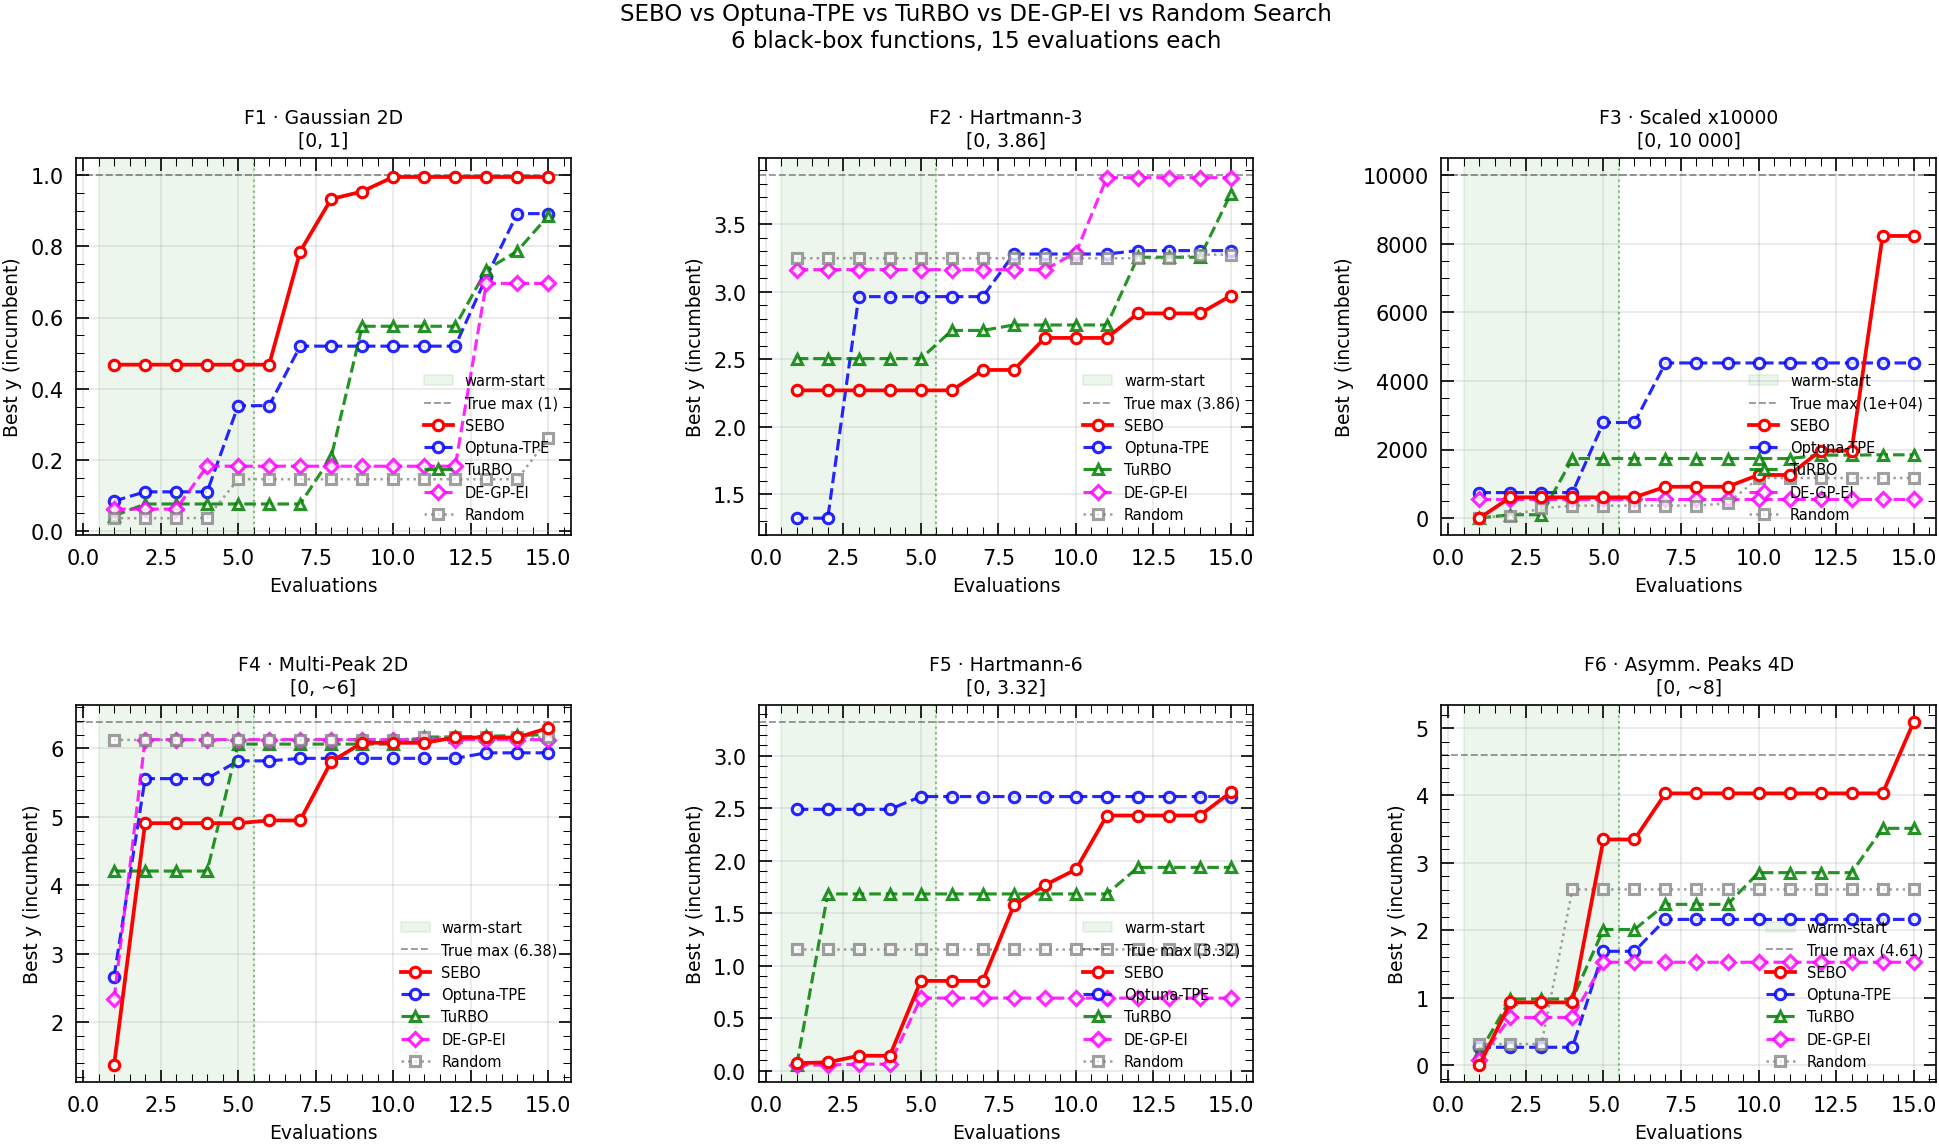
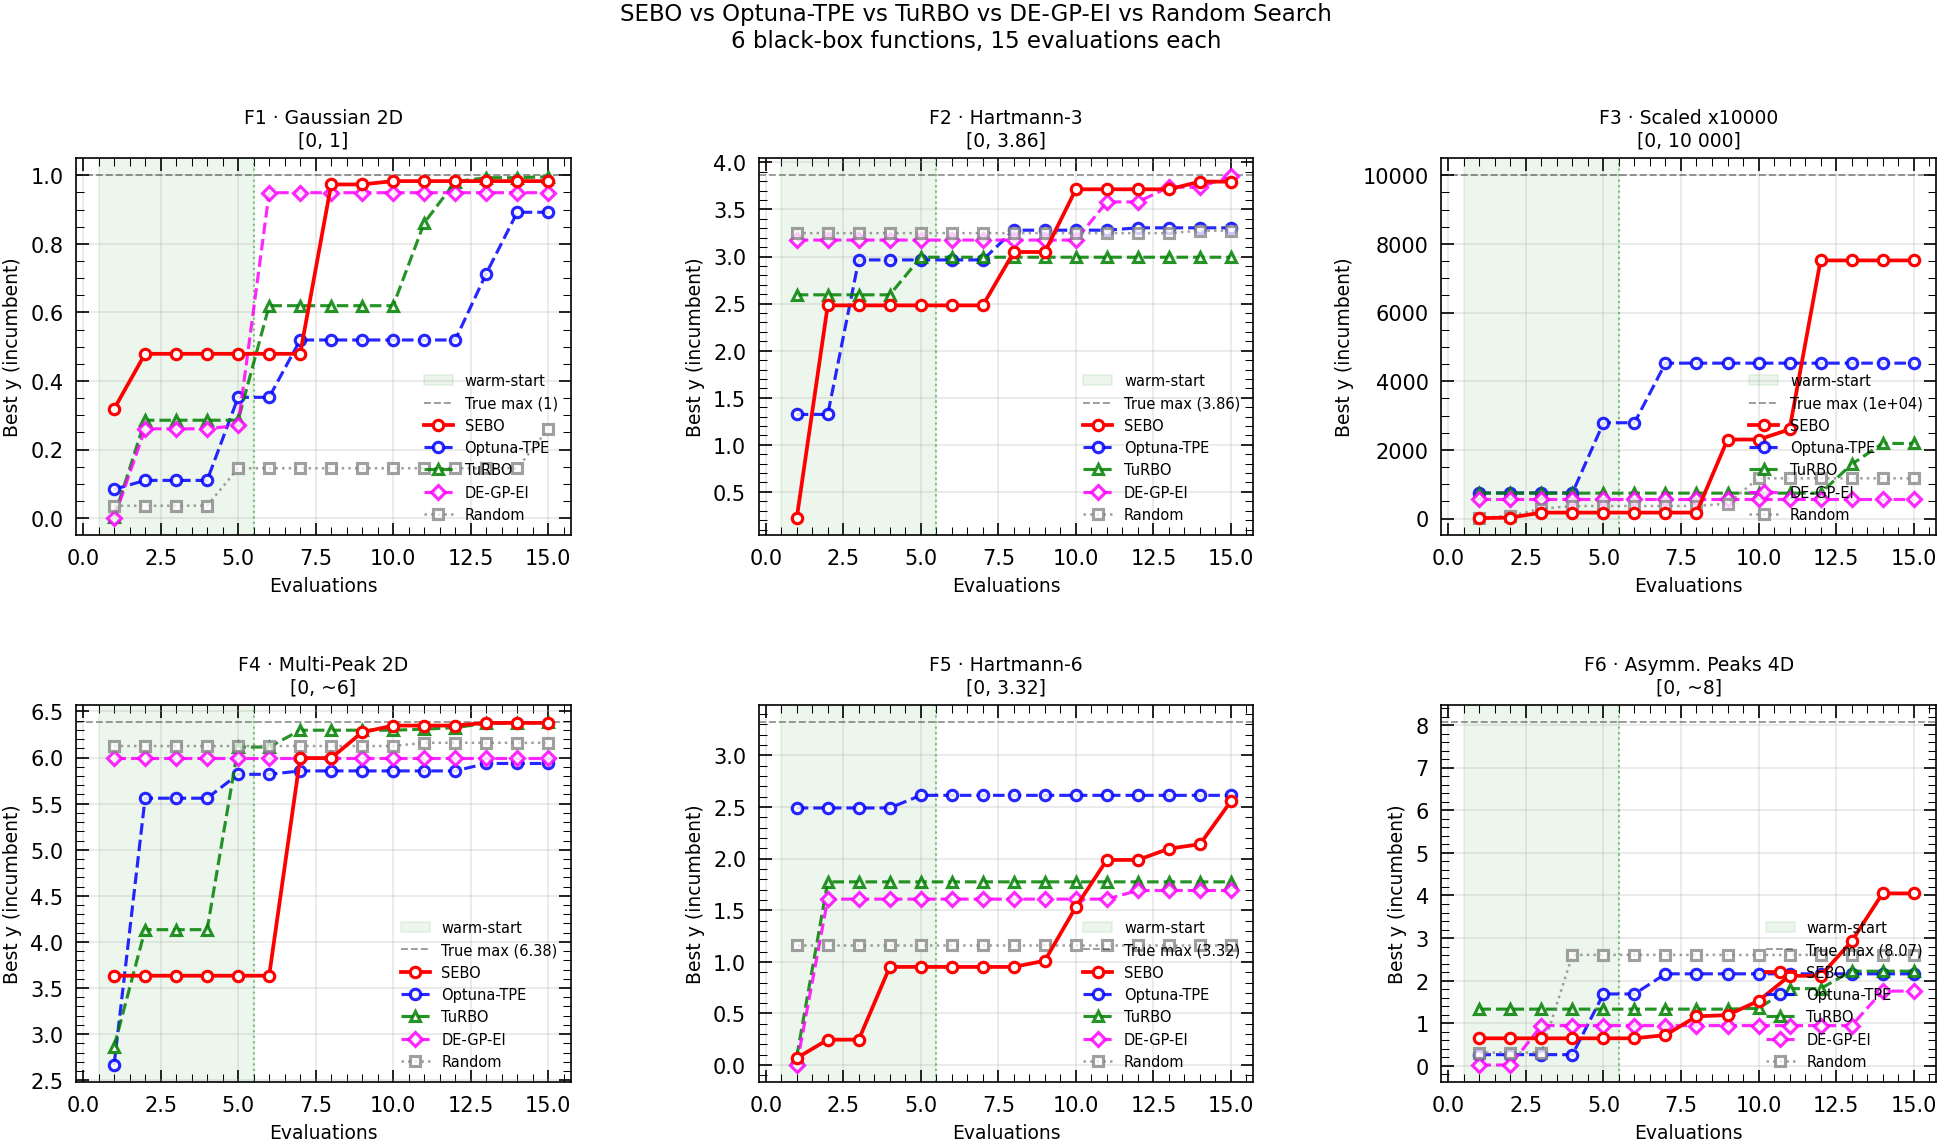
Fix F6 true_opt (DE was stuck at local peak); reframe benchmark as open-source comparison

diff --git a/README.md b/README.md
@@ -137,13 +137,13 @@ python append_results/run_optimizers_on_data.py --solvers my_bo optuna turbo de_
 
 ---
 
-## Demo — SEBO as a Real HPO Solver
+## Demo — SEBO as an HPO Solver
 
 [![Open In Colab](https://colab.research.google.com/assets/colab-badge.svg)](https://colab.research.google.com/github/karefyllidis/SEBO/blob/main/notebooks/demo_sklearn_hpo.ipynb)
 
 **[notebooks/demo_sklearn_hpo.ipynb](notebooks/demo_sklearn_hpo.ipynb)** — self-contained, no oracle data needed. Tunes a `RandomForestClassifier` on sklearn's Digits dataset (4D search space: n_estimators, max_depth, min_samples_split, max_features). 10 LHS warm-start + 20 BO iterations vs 30 random search evaluations.
 
-**[notebooks/sebo_benchmark.ipynb](notebooks/sebo_benchmark.ipynb)** — SEBO vs Optuna-TPE vs TuRBO vs DE-GP-EI vs Random Search on 6 synthetic black-box functions spanning four orders of magnitude in output scale (log-warping on F3, asymmetric Gaussian peaks on F6). 15 evaluations per function.
+**[notebooks/sebo_benchmark.ipynb](notebooks/sebo_benchmark.ipynb)** — SEBO (built from scratch) benchmarked against common open-source solvers — Optuna-TPE, TuRBO, DE-GP-EI, and Random Search — on 6 synthetic black-box functions spanning four orders of magnitude in output scale (log-warping on F3, asymmetric Gaussian peaks on F6). 15 evaluations per function.
 
 ![SEBO Benchmark Convergence](docs/sebo_benchmark_convergence.png)
 